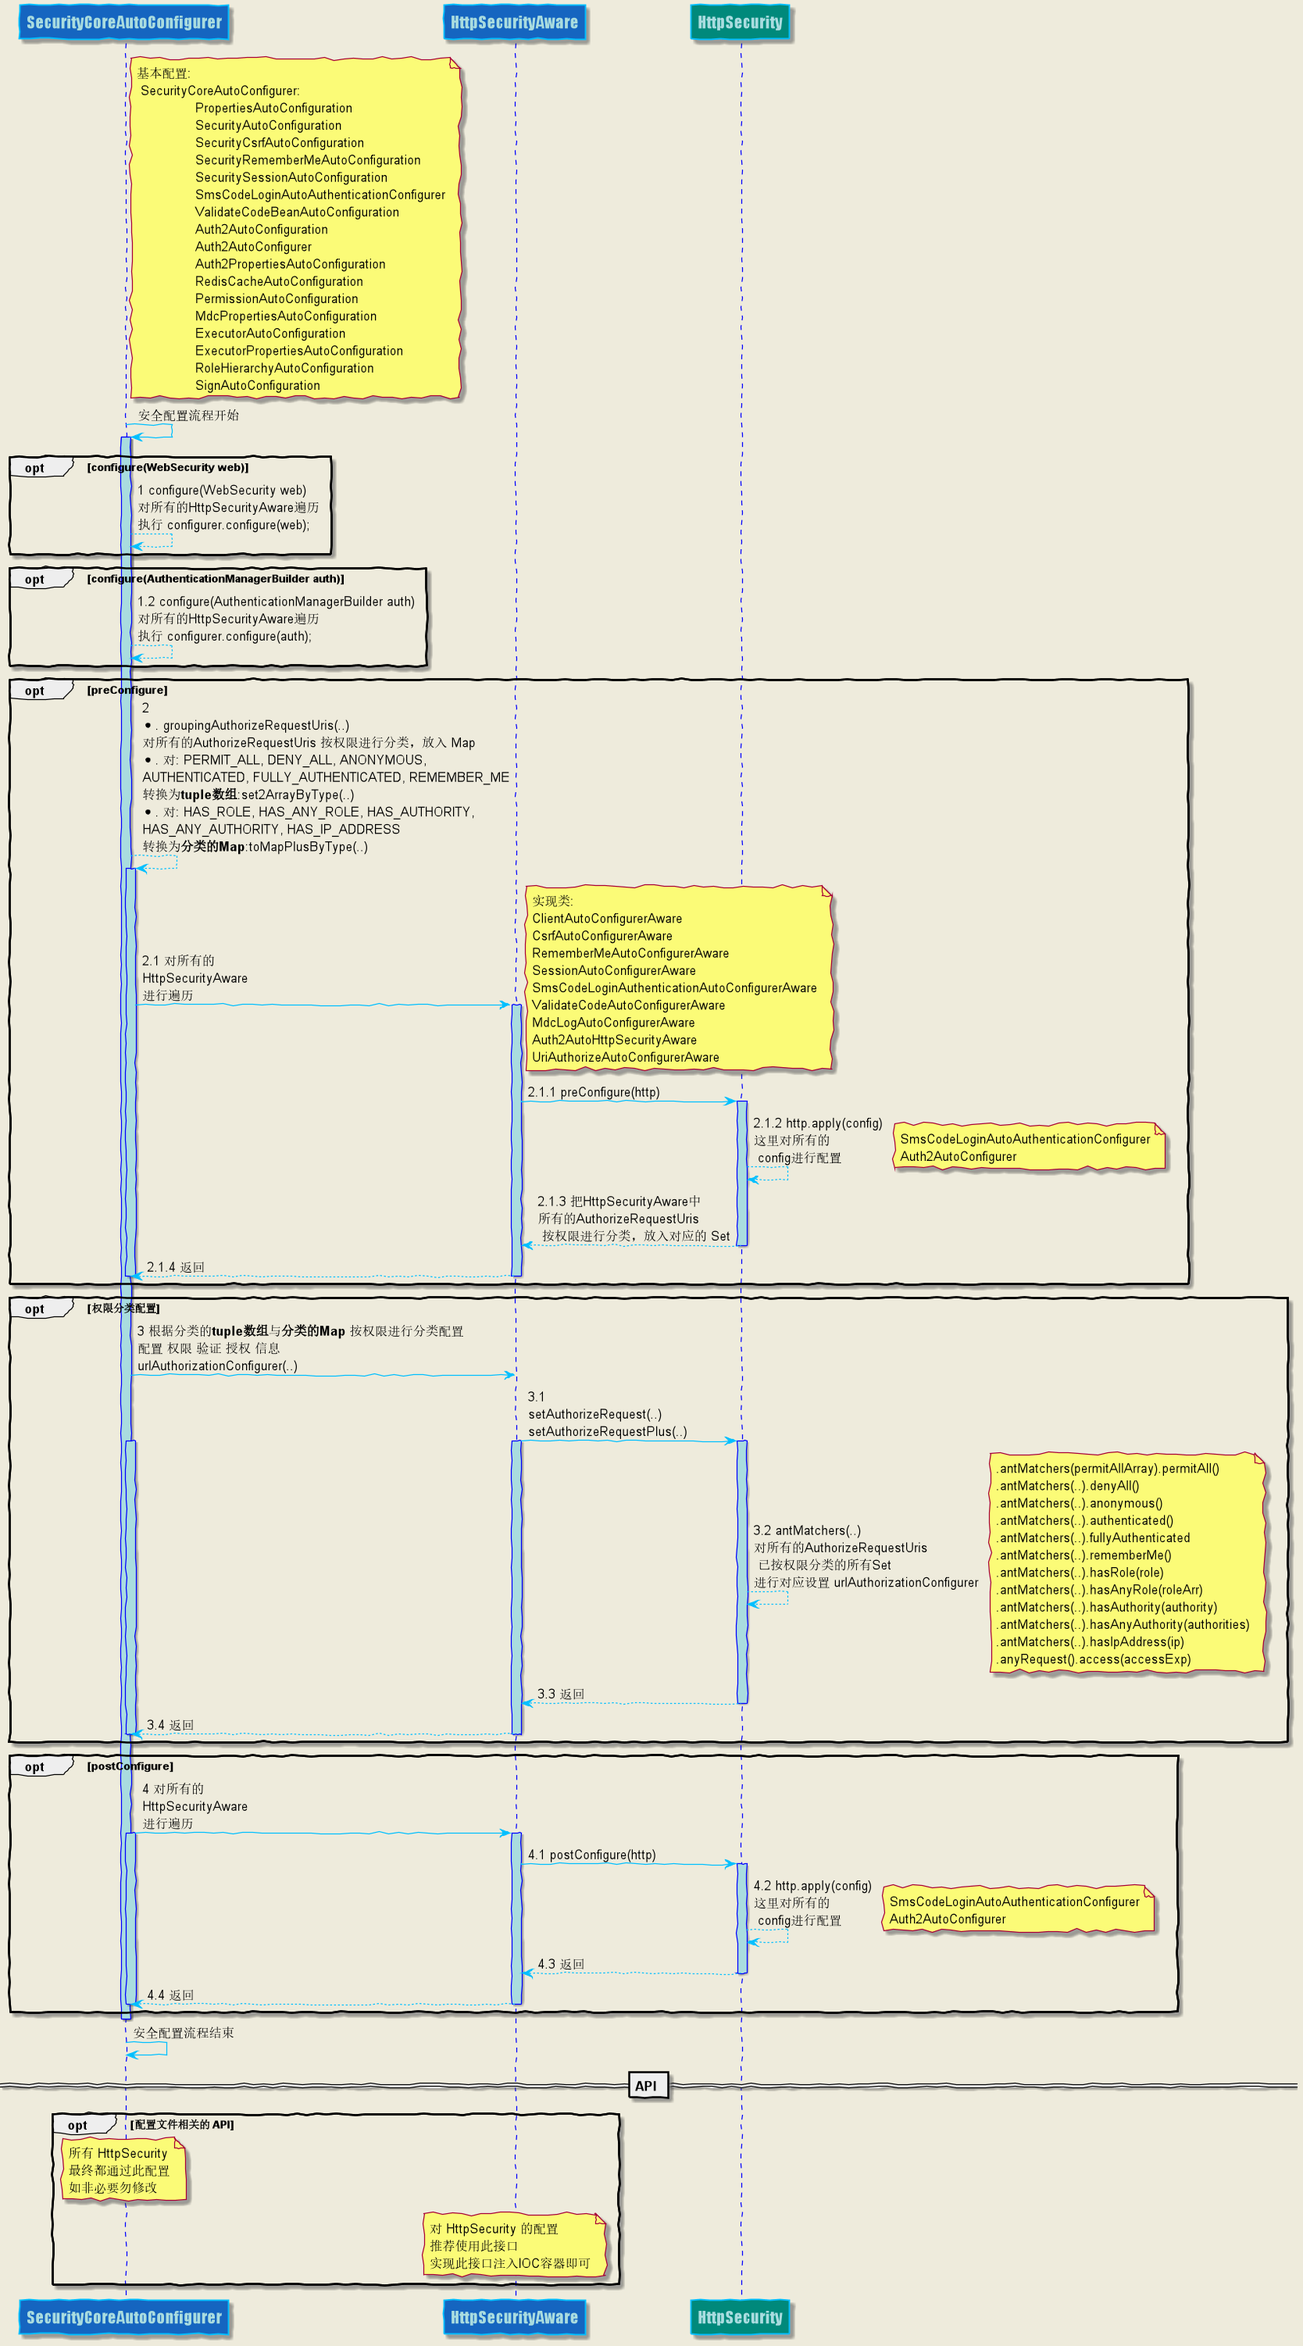
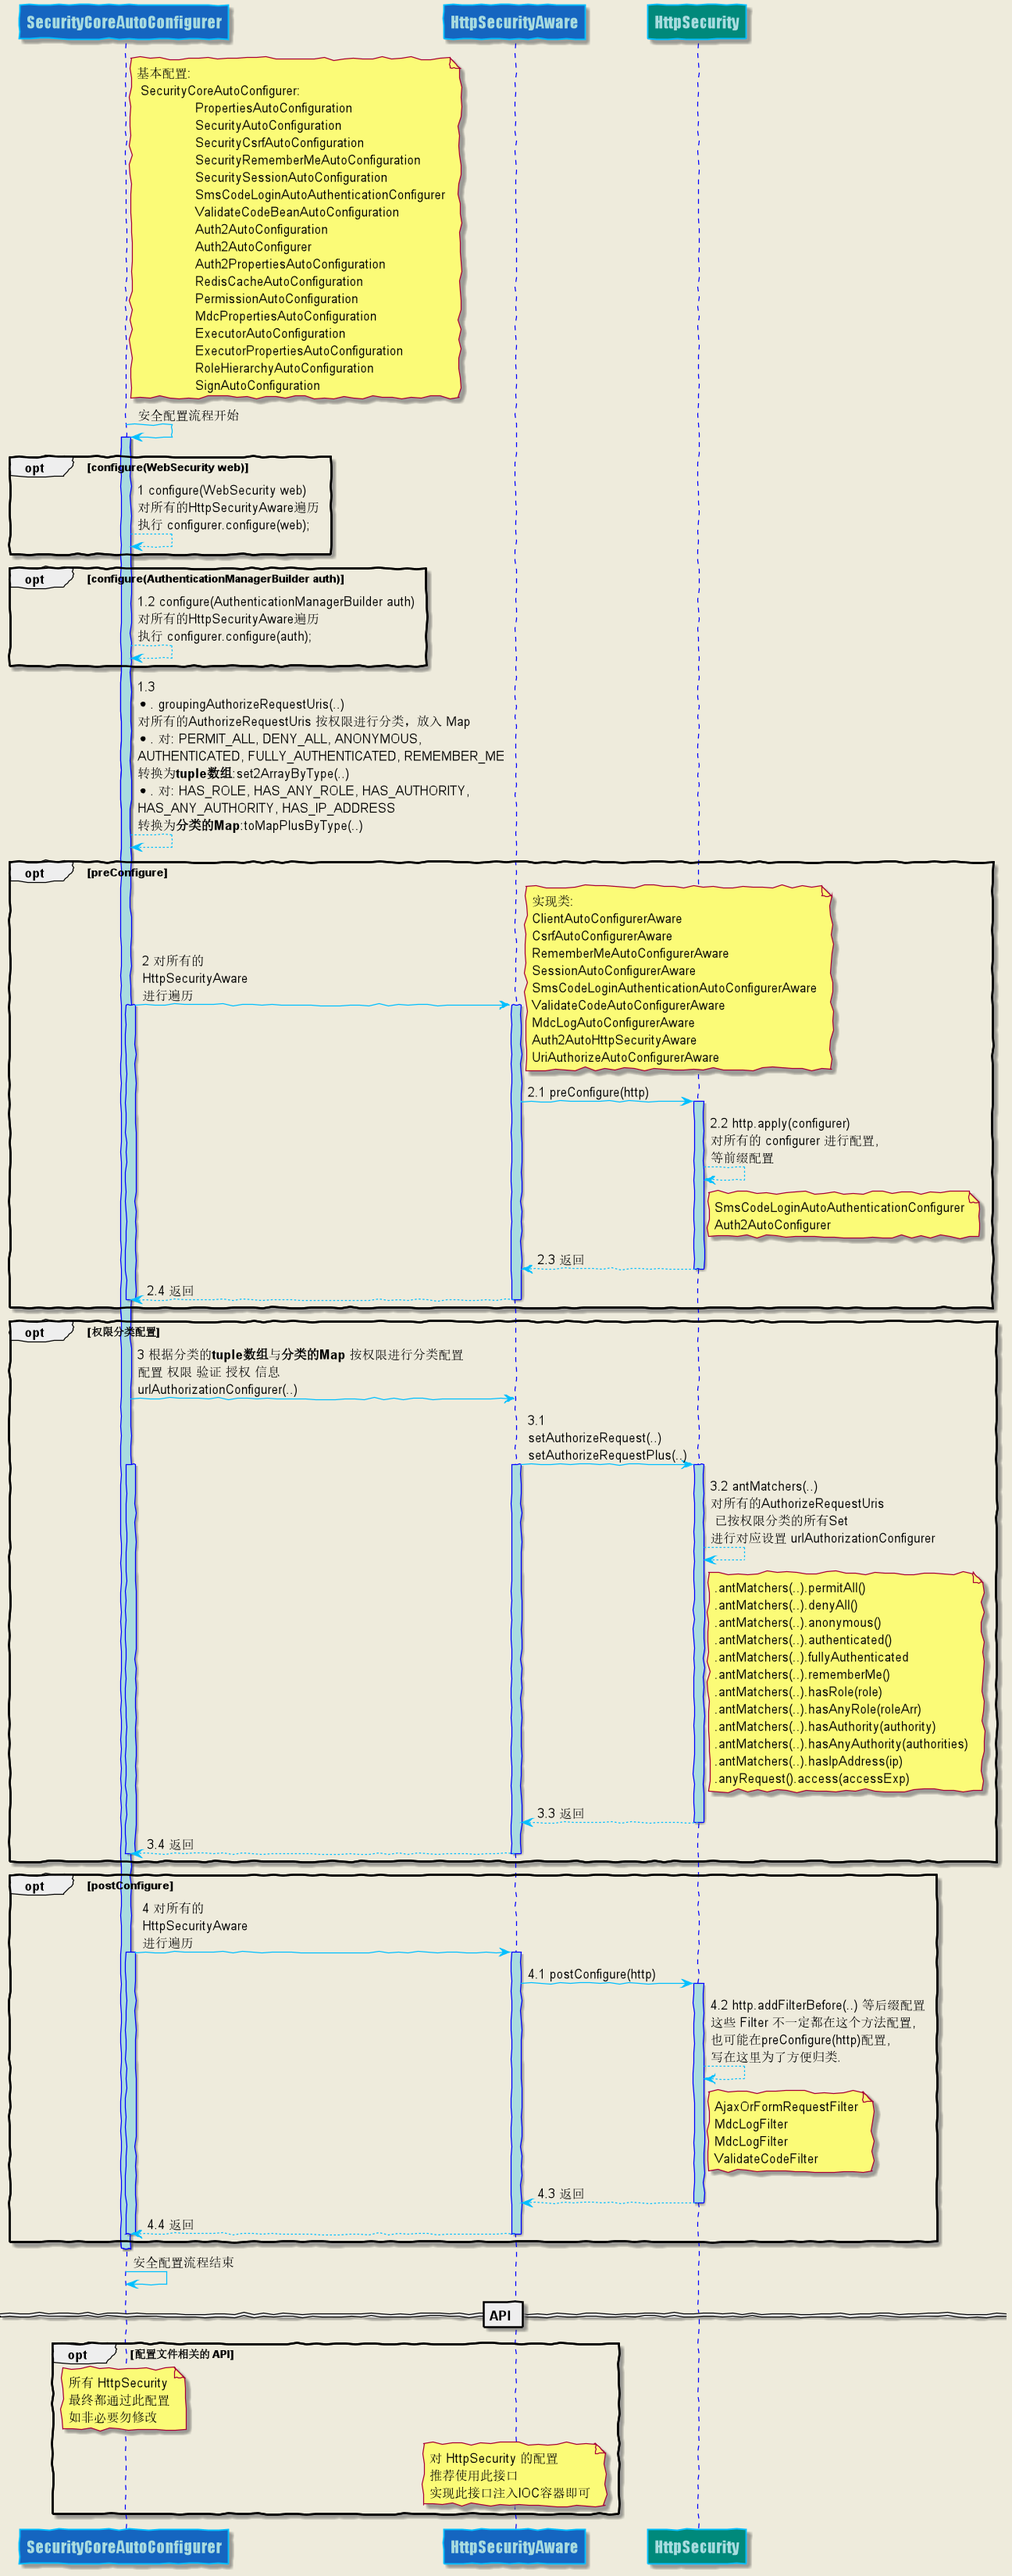
优化:

Changed region(s): [[0.0, 0.0, 1.0, 1.0]]

diff --git a/core/src/main/java/top/dcenter/ums/security/core/auth/filter/AjaxOrFormRequestFilter.java b/core/src/main/java/top/dcenter/ums/security/core/auth/filter/AjaxOrFormRequestFilter.java
@@ -23,8 +23,6 @@
 
 package top.dcenter.ums.security.core.auth.filter;
 
-import com.fasterxml.jackson.databind.DeserializationFeature;
-import com.fasterxml.jackson.databind.ObjectMapper;
 import lombok.Getter;
 import lombok.extern.slf4j.Slf4j;
 import org.springframework.http.MediaType;
@@ -32,6 +30,7 @@ import org.springframework.lang.NonNull;
 import org.springframework.web.filter.OncePerRequestFilter;
 import top.dcenter.ums.security.common.consts.SecurityConstants;
 import top.dcenter.ums.security.core.util.ConvertUtil;
+import top.dcenter.ums.security.core.util.MvcUtil;
 
 import javax.servlet.FilterChain;
 import javax.servlet.ReadListener;
@@ -71,22 +70,17 @@ public class AjaxOrFormRequestFilter extends OncePerRequestFilter {
      */
     public static final String VALIDATE_JSON_PREFIX  = "{";
 
-    private final ObjectMapper objectMapper;
-
     /**
      * Creates a new instance.
-     *
-     * @param objectMapper  objectMapper
      */
-    public AjaxOrFormRequestFilter(ObjectMapper objectMapper) {
-        this.objectMapper = objectMapper.configure(DeserializationFeature.FAIL_ON_UNKNOWN_PROPERTIES, false);
+    public AjaxOrFormRequestFilter() {
     }
 
     @Override
     protected void doFilterInternal(@NonNull HttpServletRequest request,
                                     @NonNull HttpServletResponse response, FilterChain filterChain)
             throws ServletException, IOException {
-        filterChain.doFilter(new AjaxOrFormRequest(request, objectMapper), response);
+        filterChain.doFilter(new AjaxOrFormRequest(request), response);
     }
 
     @Slf4j
@@ -98,7 +92,7 @@ public class AjaxOrFormRequestFilter extends OncePerRequestFilter {
         @Getter
         private final Map<String, Object> formMap;
 
-        AjaxOrFormRequest(HttpServletRequest request, ObjectMapper objectMapper) {
+        AjaxOrFormRequest(HttpServletRequest request) {
             super(request);
             String contentType = request.getContentType();
             String method = request.getMethod();
@@ -120,7 +114,7 @@ public class AjaxOrFormRequestFilter extends OncePerRequestFilter {
                         if (jsonData.startsWith(VALIDATE_JSON_PREFIX))
                         {
                             //noinspection unchecked
-                            map = objectMapper.readValue(jsonData, Map.class);
+                            map = MvcUtil.json2Object(jsonData, Map.class);
                         } else
                         {
                             map = ConvertUtil.string2JsonMap(jsonData, SecurityConstants.URL_PARAMETER_SEPARATOR,

diff --git a/core/src/main/java/top/dcenter/ums/security/core/auth/config/CsrfAutoConfigurerAware.java b/core/src/main/java/top/dcenter/ums/security/core/auth/config/CsrfAutoConfigurerAware.java
@@ -23,18 +23,14 @@
 
 package top.dcenter.ums.security.core.auth.config;
 
-import com.fasterxml.jackson.databind.DeserializationFeature;
-import com.fasterxml.jackson.databind.ObjectMapper;
 import org.springframework.boot.autoconfigure.AutoConfigureAfter;
 import org.springframework.context.annotation.Configuration;
 import org.springframework.security.config.annotation.authentication.builders.AuthenticationManagerBuilder;
 import org.springframework.security.config.annotation.web.builders.HttpSecurity;
 import org.springframework.security.config.annotation.web.builders.WebSecurity;
 import org.springframework.security.config.annotation.web.configurers.CsrfConfigurer;
-import org.springframework.security.web.csrf.CsrfFilter;
 import top.dcenter.ums.security.common.api.config.HttpSecurityAware;
 import top.dcenter.ums.security.common.bean.UriHttpMethodTuple;
-import top.dcenter.ums.security.core.auth.filter.AjaxOrFormRequestFilter;
 import top.dcenter.ums.security.core.auth.properties.ClientProperties;
 
 import java.util.Map;
@@ -50,11 +46,9 @@ import java.util.Set;
 public class CsrfAutoConfigurerAware implements HttpSecurityAware {
 
     private final ClientProperties clientProperties;
-    private final ObjectMapper objectMapper;
 
-    public CsrfAutoConfigurerAware(ClientProperties clientProperties, ObjectMapper objectMapper) {
+    public CsrfAutoConfigurerAware(ClientProperties clientProperties) {
         this.clientProperties = clientProperties;
-        this.objectMapper = objectMapper.configure(DeserializationFeature.FAIL_ON_UNKNOWN_PROPERTIES, false);
     }
 
     @Override
@@ -71,8 +65,7 @@ public class CsrfAutoConfigurerAware implements HttpSecurityAware {
     @SuppressWarnings("RedundantThrows")
     @Override
     public void preConfigure(HttpSecurity http) throws Exception {
-        // 添加 AjaxOrFormRequestFilter 增加对 Ajax 格式与 form 格式的解析,
-        http.addFilterBefore(new AjaxOrFormRequestFilter(objectMapper), CsrfFilter.class);
+        // dto nothing
     }
 
     @Override

diff --git a/core/src/main/java/top/dcenter/ums/security/core/auth/config/ClientAutoConfigurerAware.java b/core/src/main/java/top/dcenter/ums/security/core/auth/config/ClientAutoConfigurerAware.java
@@ -31,12 +31,14 @@ import org.springframework.security.config.annotation.authentication.builders.Au
 import org.springframework.security.config.annotation.web.builders.HttpSecurity;
 import org.springframework.security.config.annotation.web.builders.WebSecurity;
 import org.springframework.security.crypto.password.PasswordEncoder;
+import org.springframework.security.web.csrf.CsrfFilter;
 import top.dcenter.ums.security.common.api.config.HttpSecurityAware;
 import top.dcenter.ums.security.common.bean.UriHttpMethodTuple;
 import top.dcenter.ums.security.core.api.authentication.handler.BaseAuthenticationFailureHandler;
 import top.dcenter.ums.security.core.api.authentication.handler.BaseAuthenticationSuccessHandler;
 import top.dcenter.ums.security.core.api.logout.DefaultLogoutSuccessHandler;
 import top.dcenter.ums.security.core.api.service.UmsUserDetailsService;
+import top.dcenter.ums.security.core.auth.filter.AjaxOrFormRequestFilter;
 import top.dcenter.ums.security.core.auth.properties.ClientProperties;
 import top.dcenter.ums.security.core.auth.provider.UsernamePasswordAuthenticationProvider;
 
@@ -134,6 +136,10 @@ public class ClientAutoConfigurerAware implements HttpSecurityAware {
 
     @Override
     public void preConfigure(HttpSecurity http) throws Exception {
+
+        // 添加 AjaxOrFormRequestFilter 增加对 Ajax 格式与 form 格式的解析,
+        http.addFilterBefore(new AjaxOrFormRequestFilter(), CsrfFilter.class);
+
         // 判断是否开启根据不同的uri跳转到相对应的登录页, 假设开启
         String loginUnAuthenticationRoutingUrl = clientProperties.getLoginUnAuthenticationRoutingUrl();
         if (!clientProperties.getOpenAuthenticationRedirect())
